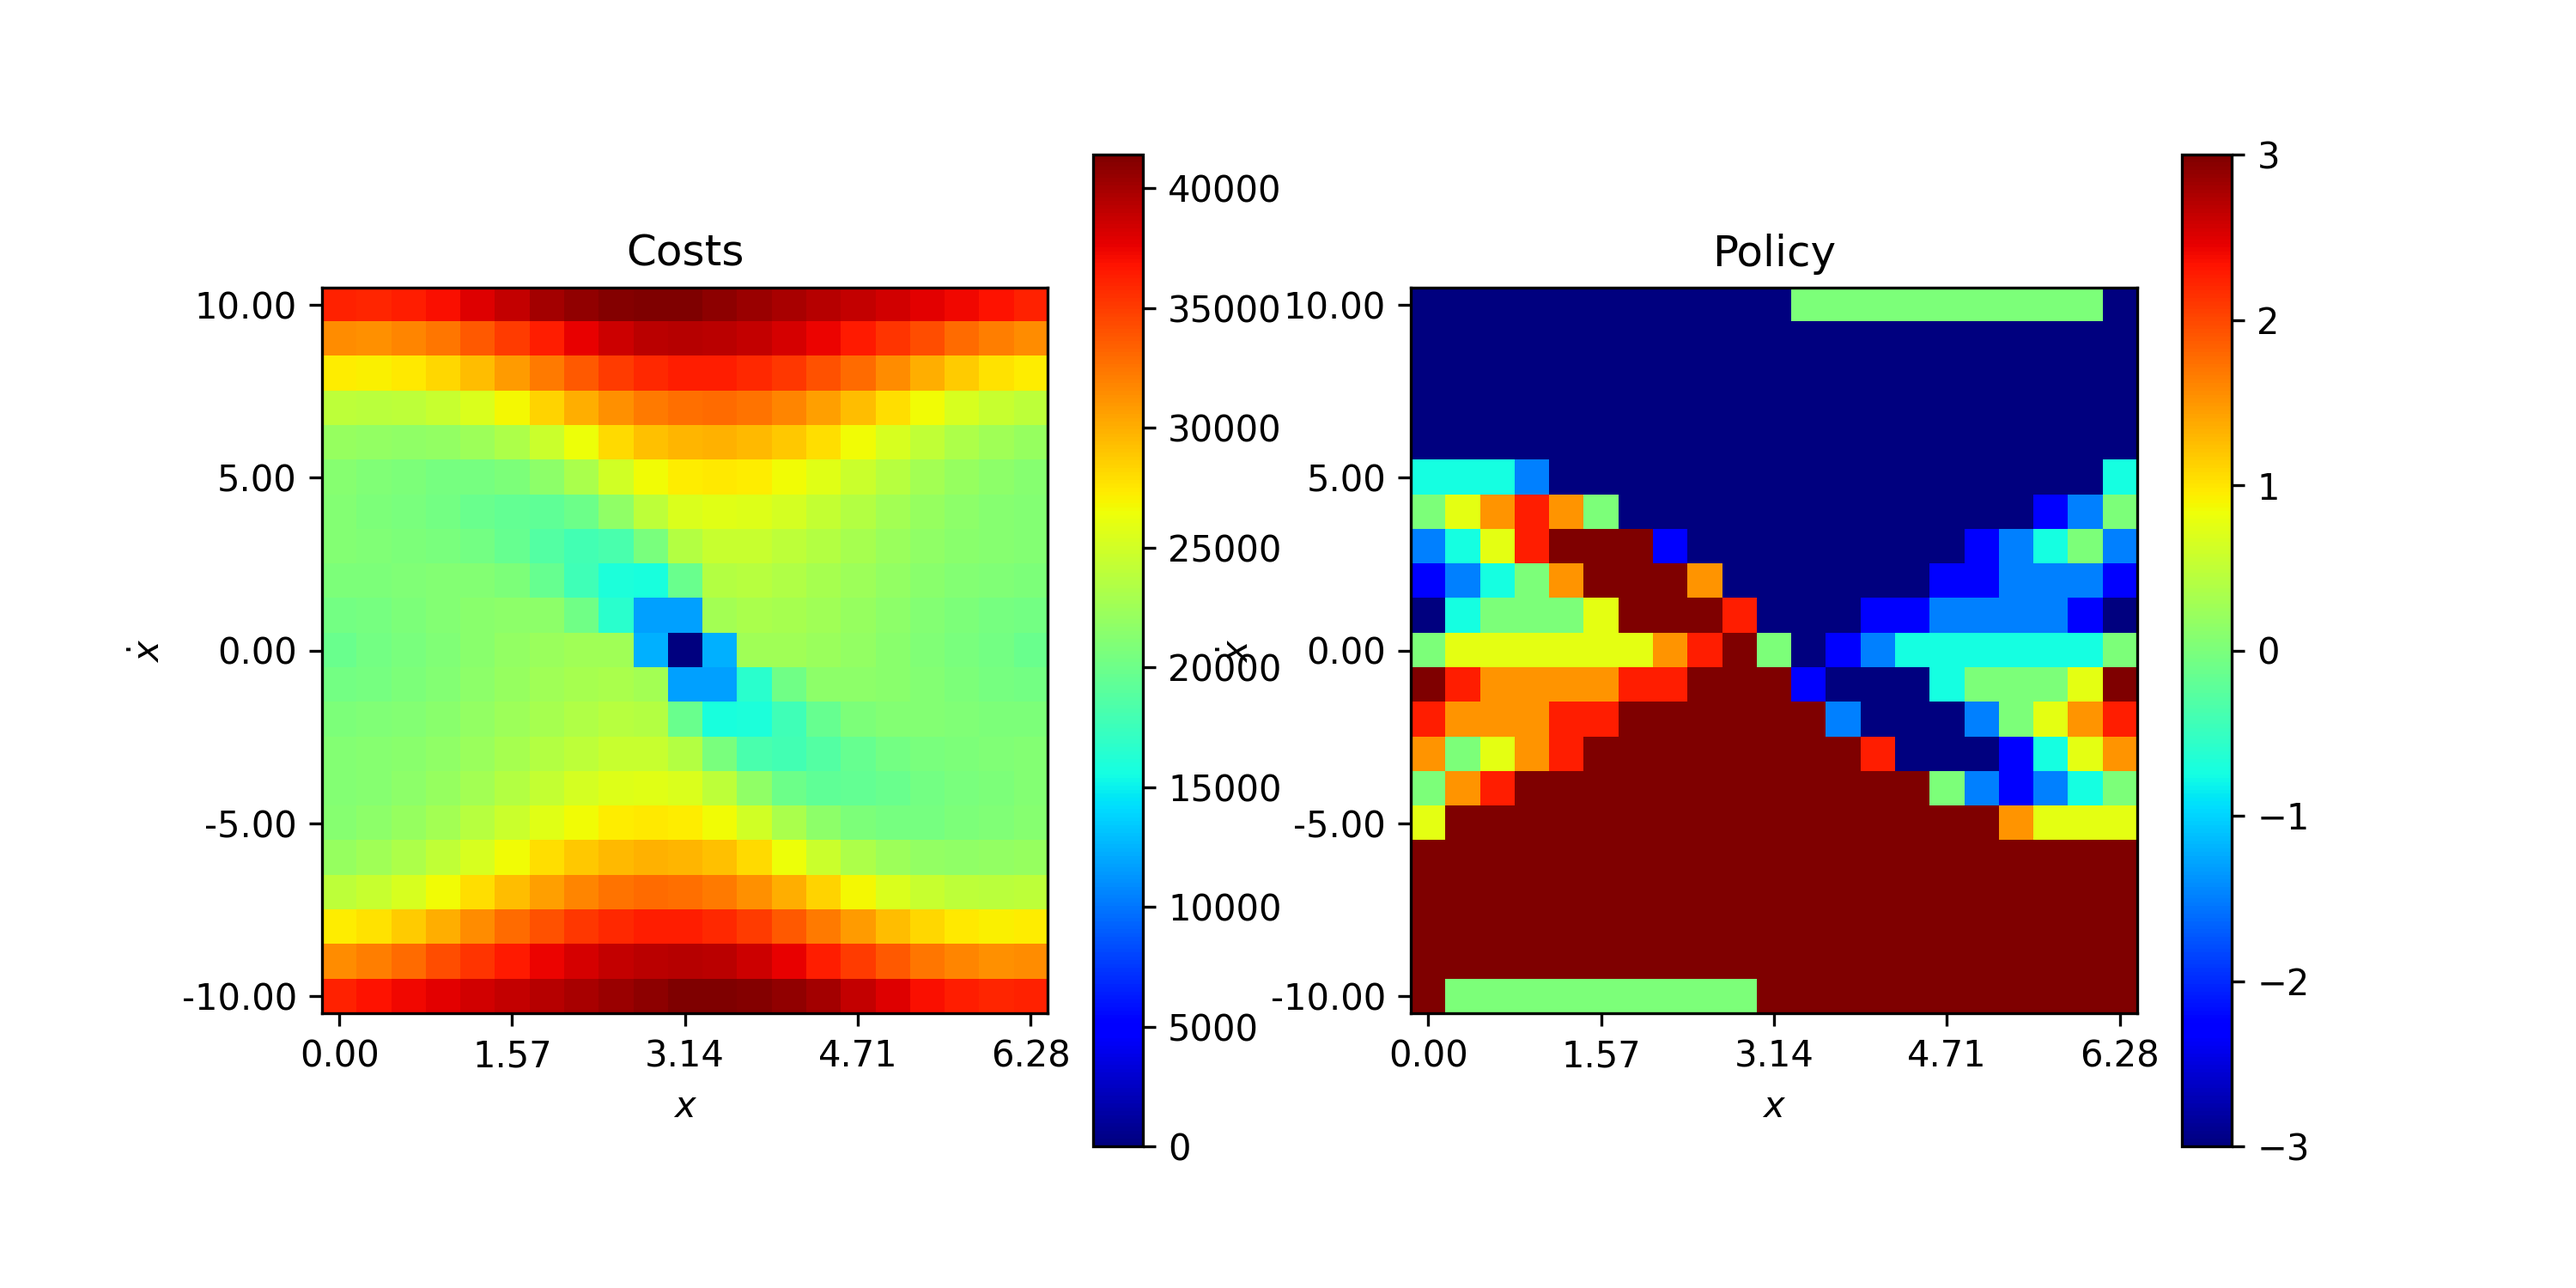
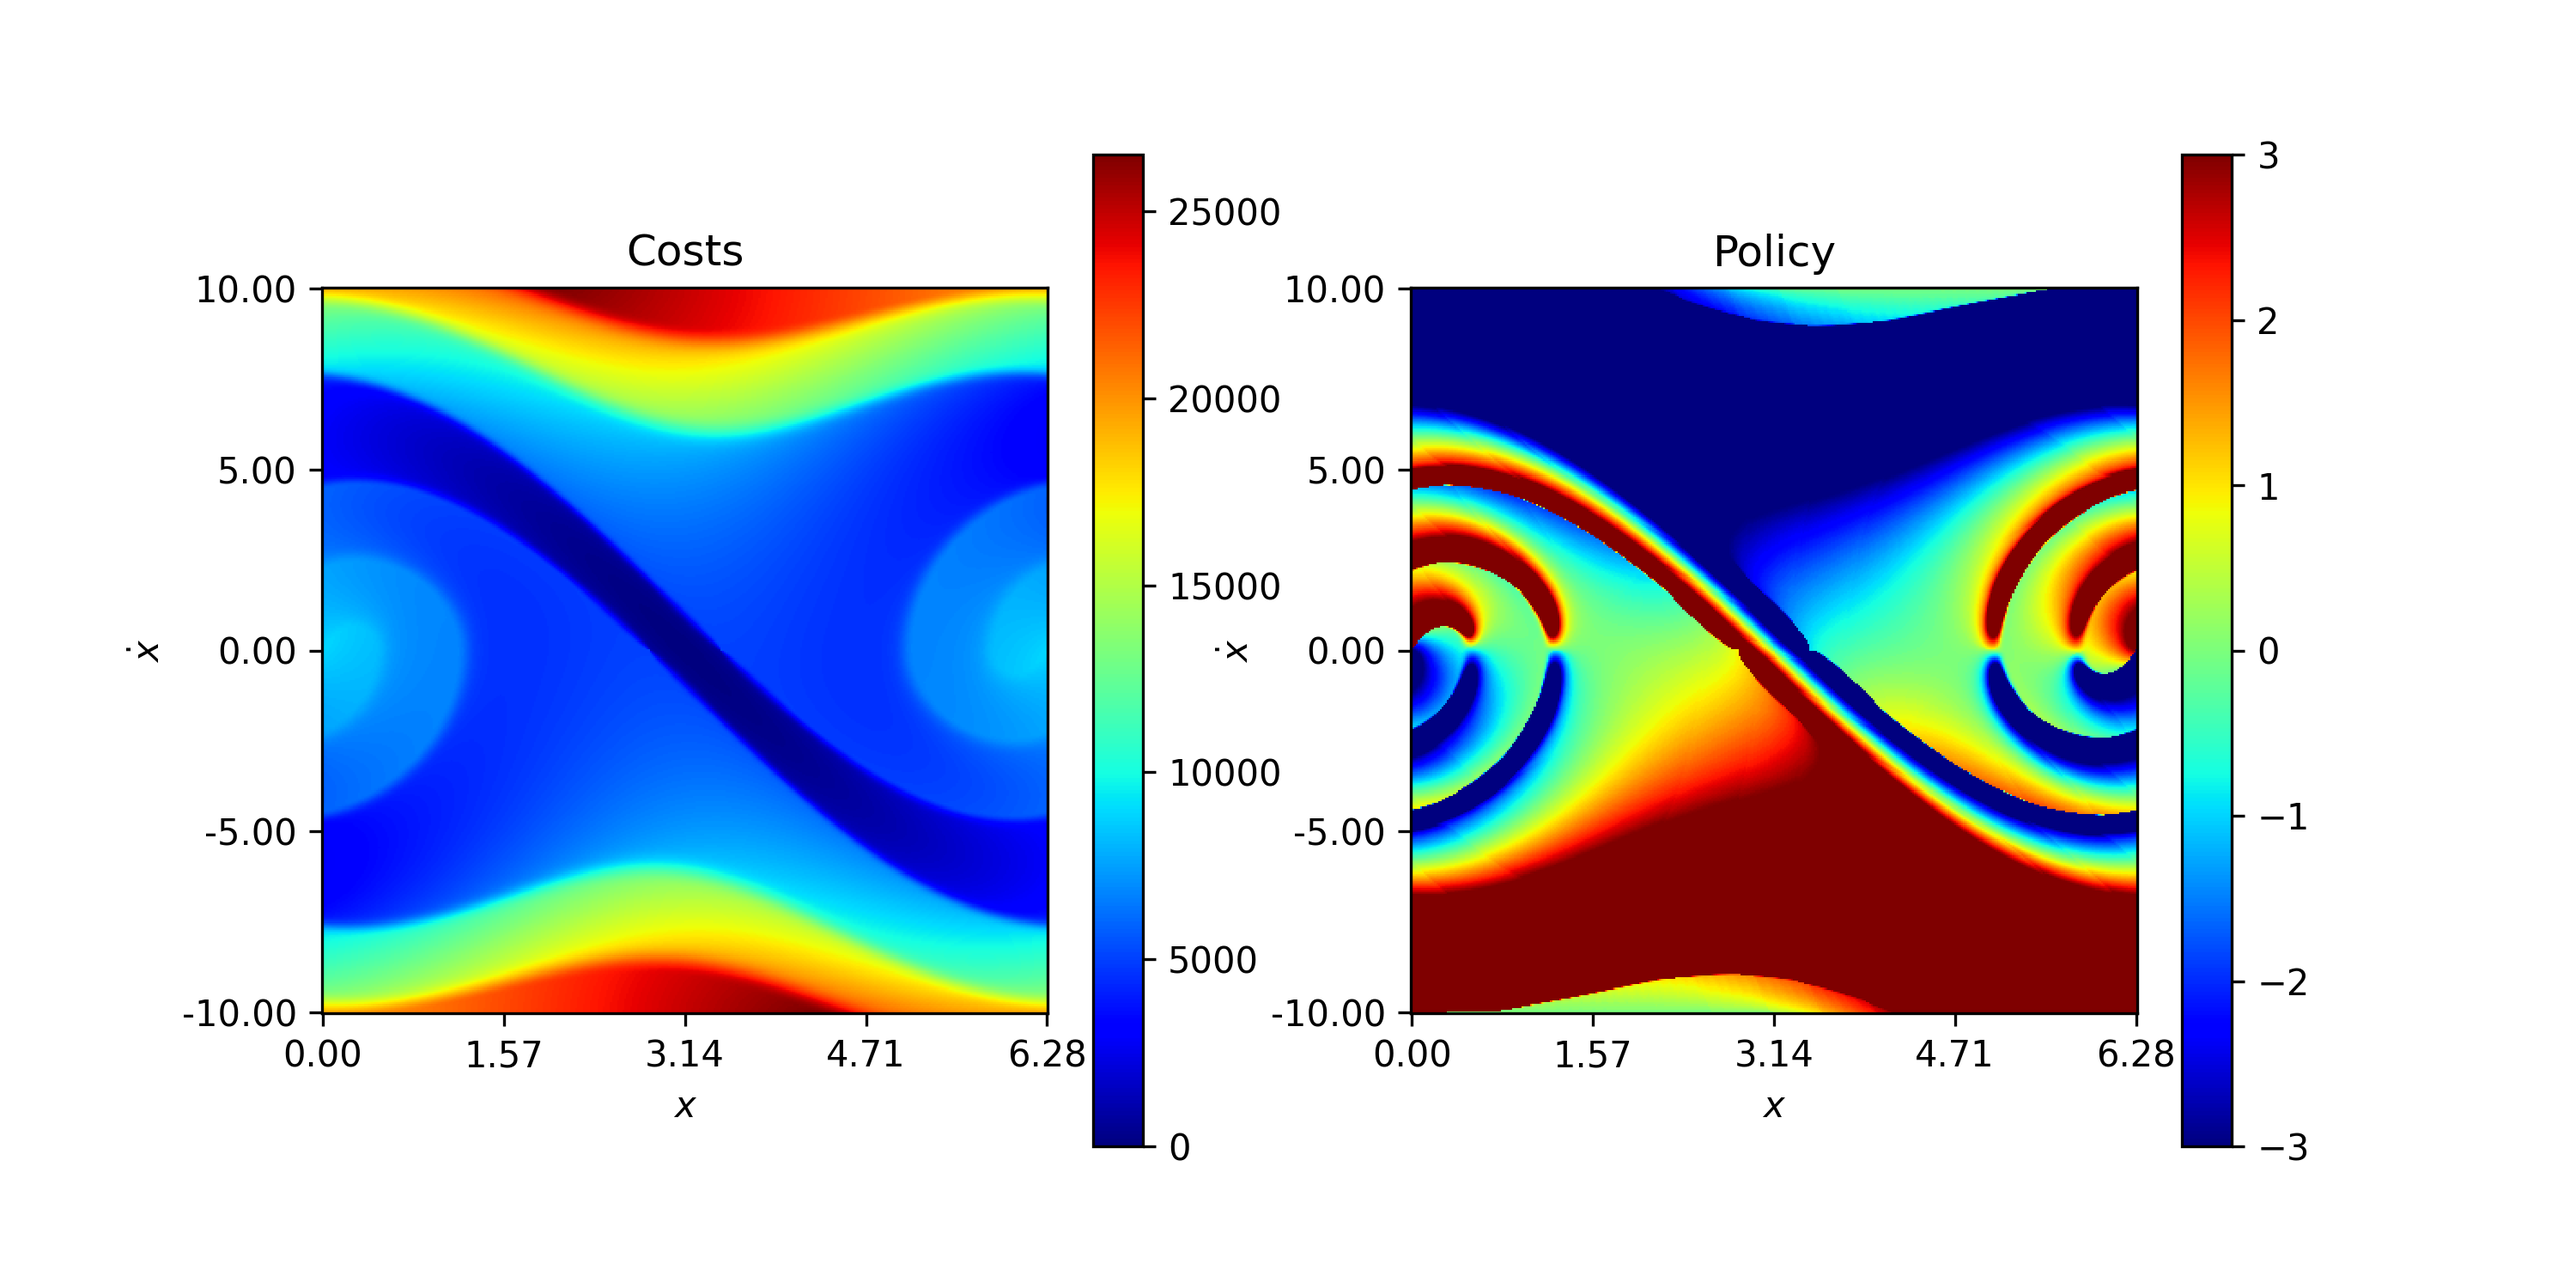
working euler setup

diff --git a/examples/pendulum/pendulum.cpp b/examples/pendulum/pendulum.cpp
@@ -10,20 +10,20 @@ int main(int argc, char** argv)
 
     MDP mdp(madupite);
     mdp.setOption("-mode", "MINCOST");
-    mdp.setOption("-max_iter_pi", "100");
+    mdp.setOption("-max_iter_pi", "200");
     mdp.setOption("-max_iter_ksp", "2000");
-    mdp.setOption("-alpha", "1e-5");
+    mdp.setOption("-alpha", "1e-2");
     mdp.setOption("-atol_pi", "1e-7");
     mdp.setOption("-ksp_type", "tfqmr");
     mdp.setOption("-discount_factor", "0.999");
     mdp.setOption("-file_stats", "pend_stats.json");
     mdp.setOption("-file_policy", "pend_policy.out");
     mdp.setOption("-file_cost", "pend_cost.out");
-    mdp.setOption("-num_states", "441");
-    mdp.setOption("-num_actions", "9");
+    mdp.setOption("-num_states", "160801");
+    mdp.setOption("-num_actions", "201");
 
-    mdp.setSourceStageCostMatrix("data/pend_g_441_9.bin");
-    mdp.setSourceTransitionProbabilityTensor("data/pend_P_441_9.bin");
+    mdp.setSourceStageCostMatrix("data/pend_g_160801_201.bin");
+    mdp.setSourceTransitionProbabilityTensor("data/pend_P_160801_201.bin");
 
     mdp.solve();
 }

diff --git a/examples/pendulum/pendulum.py b/examples/pendulum/pendulum.py
@@ -8,9 +8,9 @@ from scipy.sparse import csr_matrix
 # from IPython.display import HTML # for animation
 
 # Constants and model parameters
-NUM_X = 51
-NUM_XD = 51
-NUM_A = 51
+NUM_X = 401
+NUM_XD = 401
+NUM_A = 201
 MAX_X = 2 * np.pi
 MAX_XD = 10.0
 MAX_A = 3.0

diff --git a/examples/pendulum/generate_pendulum_data.py b/examples/pendulum/generate_pendulum_data.py
@@ -10,7 +10,7 @@ import time
 # Constants and model parameters
 NUM_X = 401
 NUM_XD = 401
-NUM_A = 401
+NUM_A = 201
 MAX_X = 2 * np.pi
 MAX_XD = 10.0
 MAX_A = 3.0
